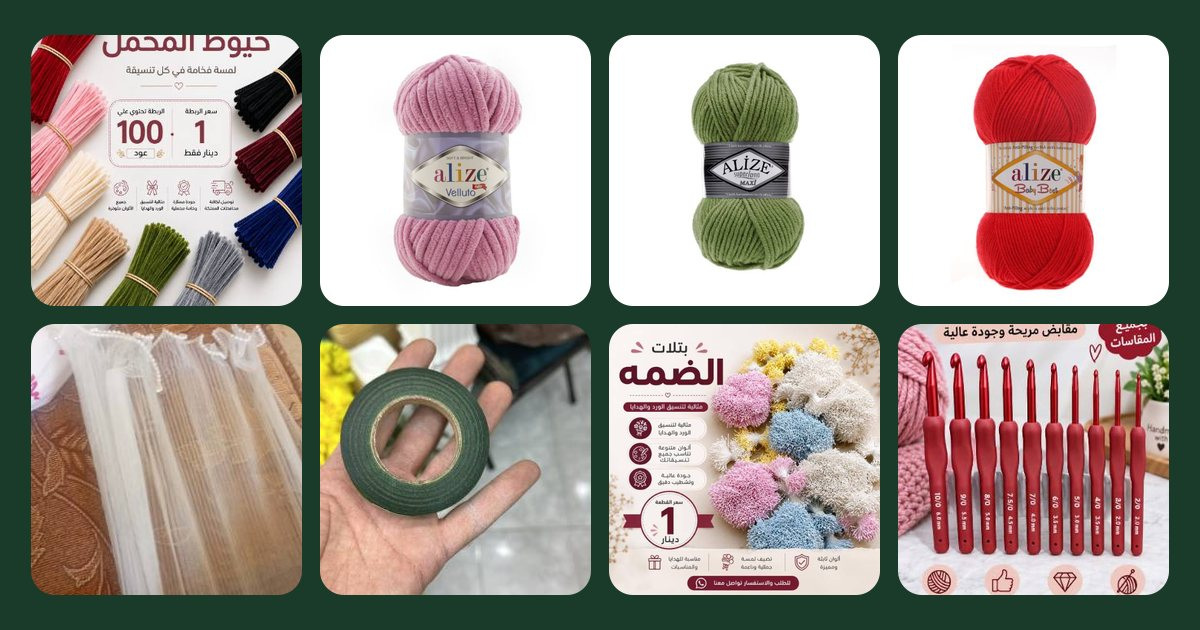
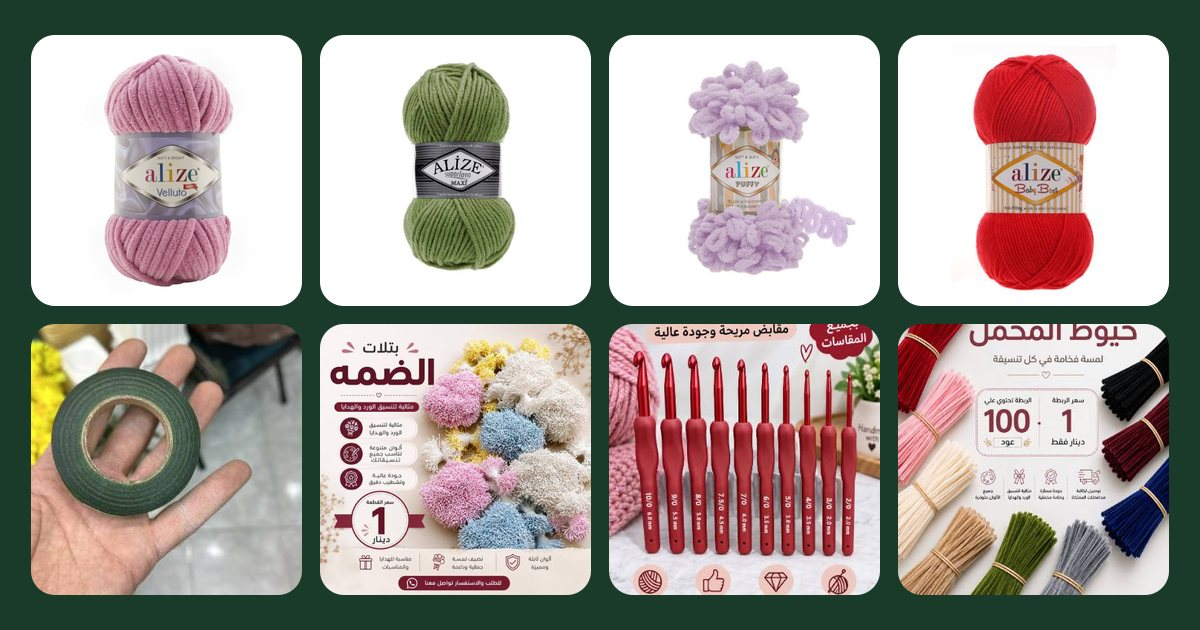
🔗 تحديث صفحات معاينة الكتالوج

diff --git a/c/index.html b/c/index.html
@@ -8,7 +8,7 @@
 <meta property="og:title" content="كتالوج المنتجات">
 <meta property="og:description" content="baby-best · puffy · superlana-maxi · velluto · اعواد مخمل · سنارة صوف · براعم · تب فلور · تول لولو · اسفنج اخضر · اعواد تنسيق رفيعه · اعواد تنسيق عريضه · اعواد تنسيق مع راسيه · حلقات مداليات · سيلكون · شبر ساتان عريض · فنجان توزيعات · مراوح بلاستيك مشكل · مراوح خشب · مراوح خشب ثقيله · ورق تغليف · تونش ستار ماكسي · بخور · بخور انسام · طقم مباخر 3 قطع · مبخرة 30 سم · مبخرة 40 سم · مبخرة 80 سم مزخرفه · مبخرة 80 سم مع شجرة · مبخرة متر · مبخرة مستطيل · مبخرة ٨٠ سم سادة · مبخره مع ورد · جوبسوفيل طبيعي · جيبسوفيل · حبل زينه · ورد توليب — اختار واطلب من هون">
 <meta property="og:url" content="https://alkiswanirosemary.com/c/">
-<meta property="og:image" content="https://alkiswanirosemary.com/c/img/_catalog.jpg?v=c37fb177">
+<meta property="og:image" content="https://alkiswanirosemary.com/c/img/_catalog.jpg?v=b6d73b5f">
 <meta property="og:image:width" content="1200">
 <meta property="og:image:height" content="630">
 <meta name="twitter:card" content="summary">

diff --git a/c/n9TGLvjncSIdog8UDPth.html b/c/n9TGLvjncSIdog8UDPth.html
@@ -8,9 +8,9 @@
 <meta property="og:title" content="ألوان puffy">
 <meta property="og:description" content="اختار ألوانك من الصور واطلب من هون — سعر القطعة 2.00 د.أ">
 <meta property="og:url" content="https://alkiswanirosemary.com/c/n9TGLvjncSIdog8UDPth">
-<meta property="og:image" content="https://alkiswanirosemary.com/icon-512.png">
-<meta property="og:image:width" content="512">
-<meta property="og:image:height" content="512">
+<meta property="og:image" content="https://alkiswanirosemary.com/c/img/n9TGLvjncSIdog8UDPth.jpg?v=8a767eeb">
+<meta property="og:image:width" content="500">
+<meta property="og:image:height" content="500">
 <meta name="twitter:card" content="summary">
 <script>location.replace("/colors.html?p=n9TGLvjncSIdog8UDPth"+(location.search?'&'+location.search.slice(1):'')+location.hash);</script>
 <noscript><meta http-equiv="refresh" content="0;url=/colors.html?p=n9TGLvjncSIdog8UDPth"></noscript>
